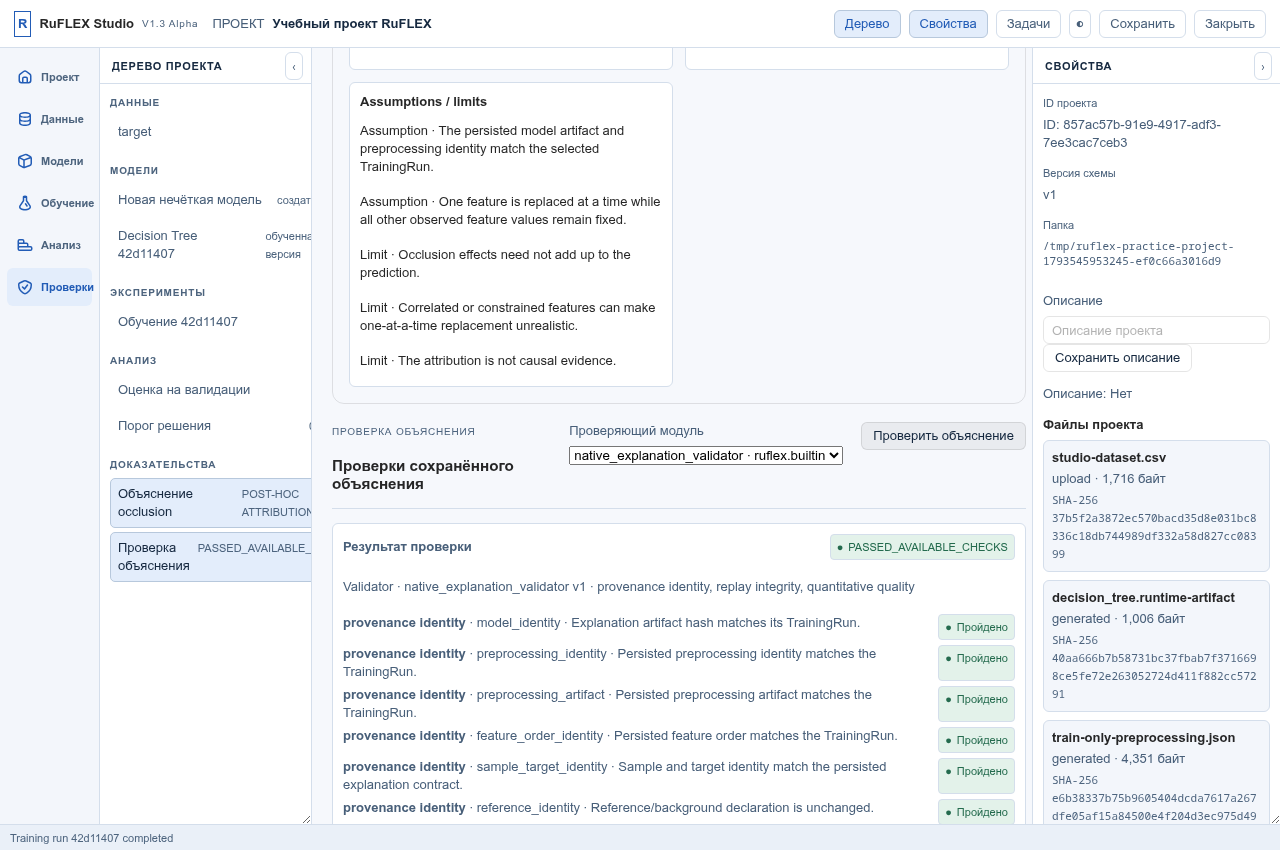
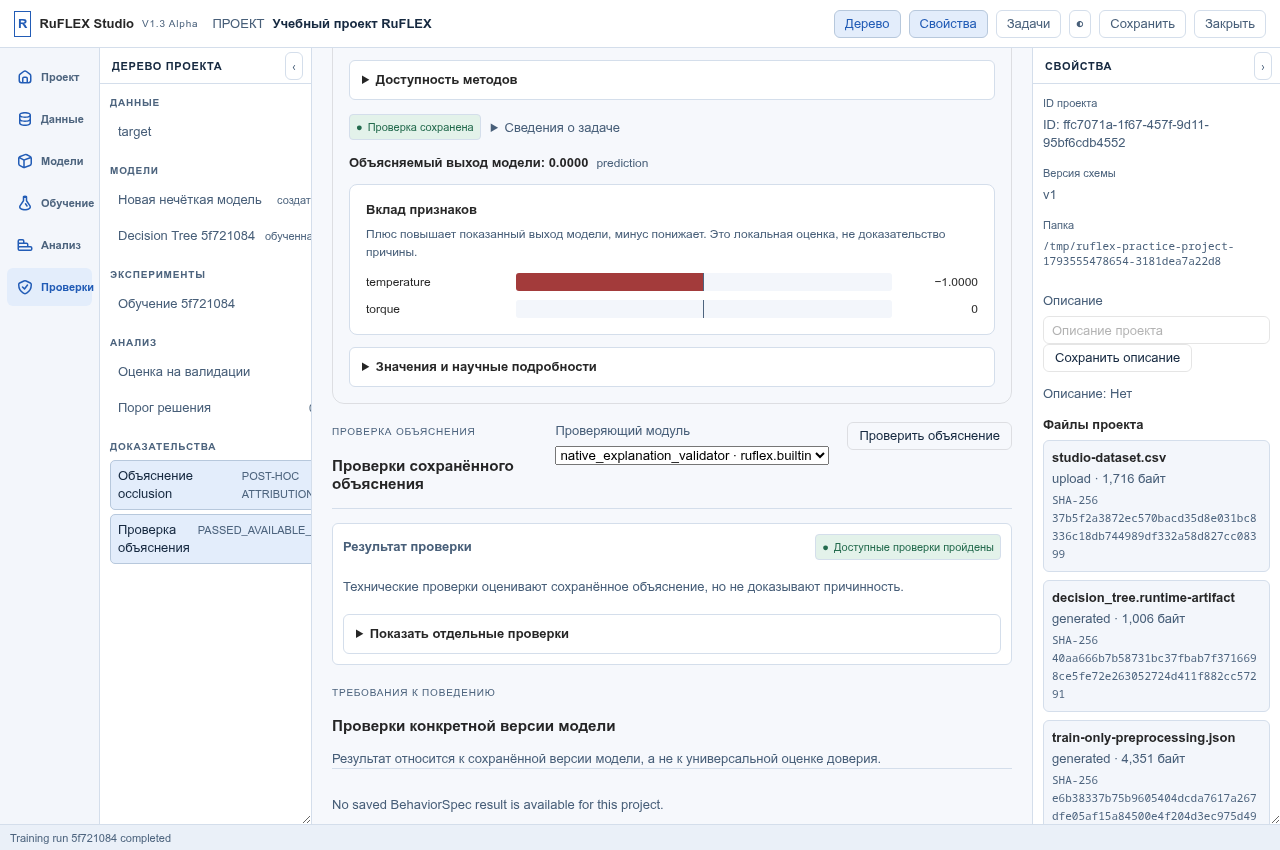
Show local explanation contributions as a compact chart

diff --git a/frontend/src/features/evidence/EvidenceWorkspace.tsx b/frontend/src/features/evidence/EvidenceWorkspace.tsx
@@ -56,6 +56,33 @@ function canonicalJson(value: unknown): string {
   return JSON.stringify(value) ?? "undefined";
 }
 
+function formatAttribution(value: number): string {
+  if (value === 0) return "0";
+  const magnitude = Math.abs(value);
+  return `${value > 0 ? "+" : "−"}${magnitude < 0.001 ? magnitude.toExponential(2) : magnitude.toFixed(4)}`;
+}
+
+function AttributionChart({ explanation }: { explanation: ExplanationContract }) {
+  const sorted = [...explanation.attributions].sort((left, right) =>
+    Math.abs(right.attribution) - Math.abs(left.attribution) || left.feature.localeCompare(right.feature));
+  const maxMagnitude = Math.max(0, ...sorted.map((item) => Math.abs(item.attribution)));
+  return <figure className="attribution-chart" data-testid="explanation-attribution-chart">
+    <figcaption>{ui("Feature contributions", "Вклад признаков")}</figcaption>
+    <p>{ui("Positive values raise the explained output; negative values lower it. This is a local estimate, not a causal effect.", "Плюс повышает показанный выход модели, минус понижает. Это локальная оценка, не доказательство причины.")}</p>
+    {sorted.length === 0 ? <p>{ui("No feature contributions were saved.", "Для этого объяснения нет сохранённых вкладов признаков.")}</p> : <div className="attribution-chart-rows">
+      {sorted.slice(0, 8).map((item) => <div className="attribution-chart-row" key={item.feature}>
+        <span className="attribution-chart-label" title={item.feature}>{item.feature}</span>
+        <div className="attribution-chart-track" aria-hidden="true">
+          <div className="attribution-chart-half negative">{item.attribution < 0 && <span style={{ width: `${maxMagnitude ? Math.abs(item.attribution) / maxMagnitude * 100 : 0}%` }} />}</div>
+          <div className="attribution-chart-half positive">{item.attribution > 0 && <span style={{ width: `${maxMagnitude ? item.attribution / maxMagnitude * 100 : 0}%` }} />}</div>
+        </div>
+        <span className="attribution-chart-value">{formatAttribution(item.attribution)}</span>
+      </div>)}
+      {sorted.length > 8 && <p>{ui(`${sorted.length - 8} more features are available in details.`, `Ещё ${sorted.length - 8} признаков — в подробностях.`)}</p>}
+    </div>}
+  </figure>;
+}
+
 export function EvidenceWorkspace({
   project,
   dataset,
@@ -1102,7 +1129,7 @@ export function EvidenceWorkspace({
       </div>
 
       {treeEvidenceHydrationStatus === "loading" && <p role="status">{ui("Checking saved structural trace…", "Проверка сохранённой трассы…")}</p>}
-      {treeEvidenceHydrationStatus === "none" && <p className="property-description" data-testid="tree-evidence-empty">{ui("No saved structural tree trace is available for this project.", "Сохранённой трассы дерева пока нет.")}</p>}
+      {treeEvidenceHydrationStatus === "none" && !explanation && <p className="property-description" data-testid="tree-evidence-empty">{ui("No saved structural tree trace is available for this project.", "Сохранённой трассы дерева пока нет.")}</p>}
       {treeEvidenceHydrationStatus === "error" && <div className="error" role="alert" data-testid="tree-evidence-hydration-error"><strong>Saved structural trace could not be verified.</strong><p>{treeEvidenceHydrationError}</p>{onRetryTreeEvidence && <Button view="outlined" onClick={onRetryTreeEvidence}>Retry structural trace</Button>}</div>}
 
       {hasExact && (
@@ -1115,10 +1142,9 @@ export function EvidenceWorkspace({
         <div className="feature-toolbar compact-toolbar">
           <div>
             <span className="eyebrow">{ui("POST-HOC ATTRIBUTION", "ОБЪЯСНЕНИЕ ПРОГНОЗА")}</span>
-            <h3>{method === "occlusion" ? "Train-reference occlusion" : method === "integrated_gradients" ? "Integrated Gradients" : method === "gradient_shap" ? "GradientSHAP" : method === "tree_shap" ? "TreeSHAP" : "SHAP · permutation"}</h3>
+            <h3>{method === "occlusion" ? ui("Train-reference occlusion", "Влияние признаков · Occlusion") : method === "integrated_gradients" ? ui("Integrated Gradients", "Интегрированные градиенты") : method === "gradient_shap" ? "GradientSHAP" : method === "tree_shap" ? "TreeSHAP" : ui("SHAP · permutation", "SHAP · перестановки")}</h3>
             <p>{ui(`${method === "occlusion" ? "One feature at a time is replaced by its train-derived reference." : method === "integrated_gradients" ? "Gradients are integrated from a train-derived reference to the observed sample." : method === "gradient_shap" ? "Expected gradients use a deterministic train-only background." : method === "tree_shap" ? "TreeSHAP uses the persisted declarative tree ensemble and a deterministic train-only background." : "Permutation SHAP uses the persisted model through a deterministic train-only background."} This is not a causal effect or an exact trace.`, "Объяснение строится по сохранённой модели и обучающим данным. Это не причинный вывод.")}</p>
           </div>
-          <StatusBadge tone="warning">post-hoc</StatusBadge>
         </div>
         {explanationHydrationStatus === "loading" && <p role="status">{ui("Loading saved explanation…", "Загрузка объяснения…")}</p>}
         {explanationHydrationStatus === "none" && <p className="property-description" data-testid="explanation-empty">{ui("No saved explanation is available for this project.", "Сохранённого объяснения пока нет.")}</p>}
@@ -1133,7 +1159,9 @@ export function EvidenceWorkspace({
               </select>
             </label>
             <label className="field-label evidence-method-select">{ui("Execution backend", "Среда выполнения")}<select aria-label={ui("Evidence execution backend", "Среда выполнения объяснения")} value={executionBackendKey} disabled={busy || project.read_only || runtimeCatalogHydrationStatus !== "available" || !executionBackends.length} onChange={(event) => setExecutionBackendKey(event.target.value)}>{executionBackends.map((backend) => <option key={backend.identity.key} value={backend.identity.key}>{backend.identity.key} · {backend.identity.provider}</option>)}</select></label>
-            <div className="evidence-sample-grid">
+            <details className="evidence-advanced-details">
+              <summary>{ui("Change the explained input", "Изменить значения для объяснения")}</summary>
+              <div className="evidence-sample-grid">
               {run.feature_columns.map((feature) => (
                 <label className="field-label" key={feature}>
                   {feature}
@@ -1142,14 +1170,15 @@ export function EvidenceWorkspace({
                   </select> : <TextInput aria-label={`Evidence ${feature}`} value={sample[feature] ?? ""} onUpdate={(value) => setSample((current) => ({ ...current, [feature]: value }))} />}
                 </label>
               ))}
-            </div>
+              </div>
+            </details>
             {samplePipelineStatus === "loading" && <p role="status">Loading this run’s TRAIN-frozen categorical choices…</p>}
             {samplePipelineStatus === "error" && <div className="error" role="alert"><strong>Categorical evidence input is paused.</strong><p>{samplePipelineError}</p><Button view="outlined" onClick={() => setSamplePipelineReload((current) => current + 1)}>Retry categorical encoder</Button></div>}
             <div className="evidence-actions">
               <Button view="action" disabled={busy || project.read_only || !categoricalSampleReady || runtimeCatalogHydrationStatus !== "available" || !executionBackends.length || capabilityHydrationStatus !== "available" || selectableMethods.length === 0 || explanationJobHydrationStatus === "loading" || explanationJobHydrationStatus === "error" || !!explanationJobPollError || !!explanationJob && ["queued", "running"].includes(explanationJob.status)} onClick={generate} data-ruflex-action="explanation.generate">{busy ? ui("Generating…", "Построение…") : ui("Generate explanation", "Построить объяснение")}</Button>
-              <span className="property-description">{run.model_kind} · run {run.run_id.slice(0, 8)}</span>
+              <span className="property-description">{ui("Model", "Модель")}: {run.model_kind}</span>
             </div>
-            {capabilityNegotiation && <div className="trace-card" data-testid="run-capability-negotiation"><strong>Run capability contract</strong><div className="property-list">{capabilityNegotiation.decisions.map((decision) => <div key={decision.capability}><span>{decision.capability.replaceAll("_", " ")}</span><span><StatusBadge tone={decision.status === "AVAILABLE" ? "success" : "info"}>{decision.status}</StatusBadge> {decision.detail}</span></div>)}</div></div>}
+            {capabilityNegotiation && <details className="evidence-advanced-details" data-testid="run-capability-negotiation"><summary>{ui("Method availability", "Доступность методов")}</summary><div className="property-list">{capabilityNegotiation.decisions.map((decision) => <div key={decision.capability}><span>{decision.capability.replaceAll("_", " ")}</span><span><StatusBadge tone={decision.status === "AVAILABLE" ? "success" : "info"}>{decision.status}</StatusBadge> {decision.detail}</span></div>)}</div></details>}
             {capabilityHydrationStatus === "loading" && <p role="status" data-testid="run-capability-loading">Checking explainer support for this exact run…</p>}
             {capabilityHydrationStatus === "error" && <div className="error" role="alert" data-testid="run-capability-error"><strong>Explainer support for this run could not be verified; generation is paused.</strong><p>{capabilityHydrationError}</p><Button view="outlined" onClick={() => setCapabilityHydrationReload((current) => current + 1)}>Retry run capabilities</Button></div>}
             {runtimeCatalogHydrationStatus === "loading" && <p role="status" data-testid="runtime-catalog-loading">Loading runtime explainer, validator and execution-backend catalogs…</p>}
@@ -1158,39 +1187,45 @@ export function EvidenceWorkspace({
             {explanationJobHydrationStatus === "loading" && <p role="status" data-testid="explanation-job-loading">Loading saved explanation job…</p>}
             {explanationJobHydrationStatus === "none" && <p className="property-description" data-testid="explanation-job-empty">No saved explanation job is available.</p>}
             {explanationJobHydrationStatus === "error" && <div className="error" role="alert" data-testid="explanation-job-hydration-error"><strong>Saved explanation job could not be verified; starting another operation is paused.</strong><p>{explanationJobHydrationError}</p><Button view="outlined" onClick={() => setExplanationJobHydrationReload((current) => current + 1)}>Retry saved explanation job</Button></div>}
-            {explanationJob && <div className="property-description" data-testid="explanation-job"><StatusBadge tone={explanationJob.status === "succeeded" ? "success" : explanationJob.status === "failed" ? "danger" : "warning"}>{explanationJob.status.toUpperCase()}</StatusBadge> {explanationJob.execution_backend_key ?? "frozen execution backend"} · {explanationJob.message ?? "Persisted operation"} · job {explanationJob.job_id.slice(0, 12)}{explanationJob.error && ` · ${explanationJob.error}`}{explanationJob.status === "queued" && <Button view="flat" size="s" disabled={cancelingExplanationJob} onClick={cancelQueuedJob} data-ruflex-action="explanation.cancel">{cancelingExplanationJob ? "Cancelling…" : "Cancel queued job"}</Button>}</div>}
+            {explanationJob && <div className="property-description" data-testid="explanation-job">{explanationJob.status === "succeeded" ? <><StatusBadge tone="success">{explanationJob.kind === "explanation_generation" ? ui("Explanation saved", "Объяснение сохранено") : ui("Check saved", "Проверка сохранена")}</StatusBadge><details className="evidence-job-details"><summary>{ui("Job details", "Сведения о задаче")}</summary><span>{explanationJob.status.toUpperCase()} · {explanationJob.execution_backend_key ?? "frozen execution backend"} · {explanationJob.message ?? "Persisted operation"} · job {explanationJob.job_id.slice(0, 12)}</span></details></> : <><StatusBadge tone={explanationJob.status === "failed" ? "danger" : "warning"}>{explanationJob.status.toUpperCase()}</StatusBadge> {explanationJob.execution_backend_key ?? "frozen execution backend"} · {explanationJob.message ?? "Persisted operation"} · job {explanationJob.job_id.slice(0, 12)}{explanationJob.error && ` · ${explanationJob.error}`}{explanationJob.status === "queued" && <Button view="flat" size="s" disabled={cancelingExplanationJob} onClick={cancelQueuedJob} data-ruflex-action="explanation.cancel">{cancelingExplanationJob ? "Cancelling…" : "Cancel queued job"}</Button>}</>}</div>}
             {explanationJob && (["queued", "running"].includes(explanationJob.status) || !!explanationJobPollError) && <div className={explanationJobPollError ? "error" : "property-description"} role={explanationJobPollError ? "alert" : "status"} data-testid="explanation-job-resume">{explanationJobPollError ? <><strong>{explanationJob.status === "succeeded" ? "Saved job output needs recovery." : "Saved job status needs recovery."}</strong><p>{explanationJobPollError}</p></> : <span>This saved job is still active. New explanation/check jobs are paused to prevent duplicate work.</span>}<Button view="outlined" disabled={busy} onClick={resumeExplanationJob}>{explanationJob.status === "succeeded" ? "Recover saved job result" : "Resume saved job"}</Button></div>}
           </>
         )}
         {error && <div className="error" role="alert">{error}</div>}
         {explanation && (
-          <div className="evidence-result-grid">
-            <section className="trace-card">
-              <strong>Explanation contract</strong>
-              <div><span>Category</span><code>{explanation.epistemic_category}</code></div>
-              <div><span>Method</span><code>{explanation.method}</code></div>
-              <div><span>Explained output</span><code>{explanation.prediction.toFixed(6)}</code></div>
-              <div><span>Output space</span><code>{explanation.output_space}</code></div>
-              {explanation.preprocessing_identity && <div><span>Preprocessing</span><code>{explanation.preprocessing_identity.slice(0, 28)}…</code></div>}
-              {explanation.sample_identity && <div><span>Sample identity</span><code>{explanation.sample_identity.slice(0, 28)}…</code></div>}
-              {explanation.base_value !== null && <div><span>Base value</span><code>{explanation.base_value.toFixed(6)}</code></div>}
-              {explanation.completeness_error !== null && <div><span>Completeness error</span><code>{explanation.completeness_error.toExponential(3)}</code></div>}
-              <p>{explanation.scientific_note}</p>
-            </section>
-            <section className="trace-card">
-              <strong>Feature effects</strong>
-              {[...explanation.attributions].sort((a, b) => Math.abs(b.attribution) - Math.abs(a.attribution)).map((item) => (
-                <div key={item.feature}>
-                  <span>{item.feature}: {item.observed_value.toFixed(4)} → ref {item.reference_value.toFixed(4)}</span>
-                  <code>{item.attribution >= 0 ? "+" : ""}{item.attribution.toFixed(6)}</code>
-                </div>
-              ))}
-            </section>
-            <section className="trace-card evidence-limitations">
-              <strong>Assumptions / limits</strong>
-              {explanation.assumptions.map((item) => <p key={item}>Assumption · {item}</p>)}
-              {explanation.limitations.map((item) => <p key={item}>Limit · {item}</p>)}
-            </section>
+          <div className="evidence-explanation-result">
+            <div className="evidence-explanation-summary"><strong>{ui("Explained model output", "Объясняемый выход модели")}: {explanation.prediction.toFixed(4)}</strong><span>{explanation.output_space}</span></div>
+            <AttributionChart explanation={explanation} />
+            <details className="evidence-advanced-details" data-testid="explanation-technical-details">
+              <summary>{ui("Values and scientific details", "Значения и научные подробности")}</summary>
+              <div className="evidence-result-grid">
+                <section className="trace-card">
+                  <strong>{ui("Explanation contract", "Контракт объяснения")}</strong>
+                  <div><span>{ui("Category", "Категория")}</span><code>{explanation.epistemic_category}</code></div>
+                  <div><span>{ui("Method", "Метод")}</span><code>{explanation.method}</code></div>
+                  <div><span>{ui("Output space", "Шкала выхода")}</span><code>{explanation.output_space}</code></div>
+                  {explanation.preprocessing_identity && <div><span>Preprocessing</span><code>{explanation.preprocessing_identity.slice(0, 28)}…</code></div>}
+                  {explanation.sample_identity && <div><span>Sample identity</span><code>{explanation.sample_identity.slice(0, 28)}…</code></div>}
+                  {explanation.base_value !== null && <div><span>Base value</span><code>{explanation.base_value.toFixed(6)}</code></div>}
+                  {explanation.completeness_error !== null && <div><span>Completeness error</span><code>{explanation.completeness_error.toExponential(3)}</code></div>}
+                  <p>{explanation.scientific_note}</p>
+                </section>
+                <section className="trace-card">
+                  <strong>{ui("All feature values", "Все значения признаков")}</strong>
+                  {[...explanation.attributions].sort((a, b) => Math.abs(b.attribution) - Math.abs(a.attribution)).map((item) => (
+                    <div key={item.feature}>
+                      <span>{item.feature}: {item.observed_value.toFixed(4)} → ref {item.reference_value.toFixed(4)}</span>
+                      <code>{formatAttribution(item.attribution)}</code>
+                    </div>
+                  ))}
+                </section>
+                <section className="trace-card evidence-limitations">
+                  <strong>{ui("Assumptions / limits", "Допущения и ограничения")}</strong>
+                  {explanation.assumptions.map((item) => <p key={item}>{ui("Assumption", "Допущение")} · {item}</p>)}
+                  {explanation.limitations.map((item) => <p key={item}>{ui("Limit", "Ограничение")} · {item}</p>)}
+                </section>
+              </div>
+            </details>
           </div>
         )}
       </section>
@@ -1204,15 +1239,19 @@ export function EvidenceWorkspace({
           </div>
           {explanationCheck && explanationCheck.explanation_id !== explanation.explanation_id ? <div className="error" role="alert" data-testid="explanation-check-mismatch"><strong>Saved check belongs to a different explanation.</strong><p>The persisted ExplanationCheck is not displayed as validation of the currently selected explanation.</p></div> : explanationCheck ? (
             <div className="trace-card">
-              <div className="evidence-check-header"><strong>{ui("Check result", "Результат проверки")}</strong><StatusBadge tone={statusTone(explanationCheck.status)}>{explanationCheck.status}</StatusBadge></div>
-              {validatorPlugins.filter((plugin) => explanationCheck.checks.some((item) => item.validator_key === plugin.key)).map((plugin) => <p className="property-description" data-testid="validator-plugin" key={plugin.key}>Validator · {plugin.key} v{plugin.version} · {Object.entries(plugin.capabilities).filter(([, available]) => available).map(([key]) => key.replaceAll("_", " ")).join(", ")}</p>)}
-              {explanationCheck.checks.map((item) => (
-                <div key={item.name}>
-                  <span><strong>{item.category.replaceAll("_", " ")}</strong> · {item.name} · {item.detail}</span>
-                  <StatusBadge tone={statusTone(item.status)}>{item.status}</StatusBadge>
-                </div>
-              ))}
-              <p>{explanationCheck.scientific_note}</p>
+              <div className="evidence-check-header"><strong>{ui("Check result", "Результат проверки")}</strong><span data-testid="explanation-check-status" data-status={explanationCheck.status}><StatusBadge tone={statusTone(explanationCheck.status)}>{explanationCheck.status === "PASSED_AVAILABLE_CHECKS" ? ui("Available checks passed", "Доступные проверки пройдены") : explanationCheck.status === "WARNING" ? ui("Checks have warnings", "Есть замечания") : ui("Checks failed", "Проверки не пройдены")}</StatusBadge></span></div>
+              <p className="property-description">{ui("Technical checks assess the saved explanation; they do not establish causality.", "Технические проверки оценивают сохранённое объяснение, но не доказывают причинность.")}</p>
+              <details className="evidence-advanced-details" data-testid="explanation-check-details"><summary>{ui("Show individual checks", "Показать отдельные проверки")}</summary>
+                {validatorPlugins.filter((plugin) => explanationCheck.checks.some((item) => item.validator_key === plugin.key)).map((plugin) => <p className="property-description" data-testid="validator-plugin" key={plugin.key}>Validator · {plugin.key} v{plugin.version} · {Object.entries(plugin.capabilities).filter(([, available]) => available).map(([key]) => key.replaceAll("_", " ")).join(", ")}</p>)}
+                {explanationCheck.checks.map((item) => (
+                  <div className="evidence-check-detail" key={item.name}>
+                    <span><strong>{item.category.replaceAll("_", " ")}</strong> · {item.name} · {item.detail}</span>
+                    <StatusBadge tone={statusTone(item.status)}>{item.status}</StatusBadge>
+                  </div>
+                ))}
+                <p>{explanationCheck.scientific_note}</p>
+                <small className="mono">{explanationCheck.status}</small>
+              </details>
             </div>
           ) : explanationCheckHydrationStatus === "error" ? <div className="error" role="alert" data-testid="explanation-check-hydration-error"><strong>{ui("Saved explanation check could not be verified.", "Не удалось проверить сохранённый результат.")}</strong><p>{explanationCheckHydrationError}</p>{onRetryExplanationCheck && <Button view="outlined" onClick={onRetryExplanationCheck}>{ui("Retry explanation check", "Повторить проверку")}</Button>}</div> : explanationCheckHydrationStatus === "loading" ? <p role="status">{ui("Loading saved explanation check…", "Загрузка проверки…")}</p> : <p className="property-description">{ui("Not checked yet. A generated explanation is not automatically validated.", "Проверка ещё не запускалась. Создание объяснения не подтверждает его корректность.")}</p>}
         </section>

diff --git a/frontend/src/styles.css b/frontend/src/styles.css
@@ -1346,6 +1346,31 @@ input:focus-visible,
 .evidence-sample-grid { display: grid; grid-template-columns: repeat(auto-fit, minmax(180px, 1fr)); gap: 10px; }
 .evidence-result-grid { display: grid; grid-template-columns: repeat(auto-fit, minmax(280px, 1fr)); gap: 12px; }
 .evidence-limitations p { margin: 6px 0; }
+.evidence-explanation-result { display: grid; gap: 12px; }
+.evidence-explanation-summary { display: flex; align-items: baseline; flex-wrap: wrap; gap: 8px; }
+.evidence-explanation-summary span { color: var(--rf-text-secondary); font-size: 12px; }
+.evidence-advanced-details { border: 1px solid var(--rf-border); border-radius: 6px; padding: 10px 12px; background: var(--rf-bg-surface); }
+.evidence-advanced-details summary { cursor: pointer; font-weight: 600; }
+.evidence-advanced-details[open] summary { margin-bottom: 12px; }
+.evidence-job-details { display: inline-block; margin-left: 10px; vertical-align: middle; }
+.evidence-job-details summary { cursor: pointer; }
+.evidence-job-details[open] { display: block; margin: 8px 0 0; }
+.attribution-chart { margin: 0; padding: 16px; border: 1px solid var(--rf-border); border-radius: 8px; background: var(--rf-bg-surface); }
+.attribution-chart figcaption { font-weight: 700; }
+.attribution-chart p { margin: 6px 0 12px; color: var(--rf-text-secondary); font-size: 12px; }
+.attribution-chart-rows { display: grid; gap: 9px; }
+.attribution-chart-row { display: grid; grid-template-columns: minmax(90px, 140px) minmax(120px, 1fr) 76px; align-items: center; gap: 10px; font-size: 12px; }
+.attribution-chart-label { overflow: hidden; text-overflow: ellipsis; white-space: nowrap; }
+.attribution-chart-track { display: grid; grid-template-columns: 1fr 1fr; height: 18px; background: var(--rf-bg-surface-2); border-radius: 3px; overflow: hidden; }
+.attribution-chart-half { display: flex; align-items: stretch; }
+.attribution-chart-half.negative { justify-content: flex-end; border-right: 1px solid var(--rf-text-muted); }
+.attribution-chart-half.positive { justify-content: flex-start; }
+.attribution-chart-half.negative span { background: var(--rf-danger); }
+.attribution-chart-half.positive span { background: var(--rf-accent); }
+.attribution-chart-value { text-align: right; font-variant-numeric: tabular-nums; }
+.evidence-check-detail { display: flex; justify-content: space-between; align-items: baseline; gap: 12px; padding: 7px 0; border-top: 1px solid var(--rf-border); }
+.evidence-check-detail span:first-child { min-width: 0; }
+@media (max-width: 720px) { .attribution-chart-row { grid-template-columns: minmax(70px, 100px) minmax(80px, 1fr) 68px; gap: 6px; } }
 .slice-form-grid { display: grid; grid-template-columns: repeat(auto-fit, minmax(170px, 1fr)); gap: 10px; margin: 12px 0; }
 .slice-form-grid input, .slice-form-grid select { width: 100%; }
 .evidence-method-select { max-width: 320px; }

diff --git a/frontend/e2e/practice-project-full-route.spec.ts b/frontend/e2e/practice-project-full-route.spec.ts
@@ -49,7 +49,15 @@ test("practice template persists data and reaches model, explanation and explici
   await page.locator('[data-ruflex-action="explanation.generate"]').click();
   await expect(page.getByTestId("explanation-job")).toContainText("SUCCEEDED");
   await page.locator('[data-ruflex-action="explanation.check"]').click();
-  await expect(page.getByText("PASSED_AVAILABLE_CHECKS", { exact: true })).toBeVisible();
+  await expect(page.getByTestId("explanation-check-status")).toHaveAttribute("data-status", "PASSED_AVAILABLE_CHECKS");
+  await expect(page.getByTestId("explanation-check-status")).toContainText("Доступные проверки пройдены");
+  const chart = page.getByTestId("explanation-attribution-chart");
+  await expect(chart).toBeVisible();
+  await expect(chart.locator(".attribution-chart-row")).toHaveCount(2);
+  await expect(page.getByTestId("explanation-technical-details")).not.toHaveAttribute("open", "");
+  await page.getByTestId("explanation-technical-details").locator("summary").click();
+  await expect(page.getByText("Все значения признаков")).toBeVisible();
+  await page.getByTestId("explanation-technical-details").locator("summary").click();
   await capture("practice-03-explanation.png");
   await page.getByRole("navigation", { name: "Разделы Studio" }).getByRole("button", { name: "Анализ" }).click();
   await expect(page.getByRole("heading", { name: "Финальный тест закрыт" })).toBeVisible();
@@ -64,4 +72,11 @@ test("practice template persists data and reaches model, explanation and explici
   await page.getByRole("button", { name: "Открыть проект", exact: true }).click();
   await page.getByRole("navigation", { name: "Разделы Studio" }).getByRole("button", { name: "Анализ" }).click();
   await expect(page.getByRole("heading", { name: "Результат финального теста сохранён отдельно" })).toBeVisible();
+  await page.getByRole("navigation", { name: "Разделы Studio" }).getByRole("button", { name: "Доказательства" }).click();
+  await expect(page.getByTestId("explanation-attribution-chart").locator(".attribution-chart-row")).toHaveCount(2);
+  await page.getByLabel("Сменить тему").click();
+  await expect(page.locator("html")).toHaveAttribute("data-ruflex-theme", "dark");
+  await expect(page.getByTestId("explanation-attribution-chart")).toBeVisible();
+  await page.getByTestId("explanation-attribution-chart").scrollIntoViewIfNeeded();
+  await capture("practice-05-explanation-dark.png");
 });

diff --git a/frontend/e2e/product-evidence-capture.spec.ts b/frontend/e2e/product-evidence-capture.spec.ts
@@ -233,11 +233,12 @@ test("PRODUCT-EVIDENCE captures the frozen V1 Studio route from persisted object
   await expect(page.getByTestId("explanation-job-resume")).toContainText("Saved ExplanationCheck response lost after persistence");
   await expect(page.getByRole("button", { name: "Run explanation checks", exact: true })).toBeDisabled();
   await page.getByRole("button", { name: "Recover saved job result", exact: true }).click();
-  await expect(page.getByText("PASSED_AVAILABLE_CHECKS", { exact: true })).toBeVisible();
+  await expect(page.getByTestId("explanation-check-status")).toHaveAttribute("data-status", "PASSED_AVAILABLE_CHECKS");
   await expect(page.getByTestId("explanation-job-resume")).toHaveCount(0);
   expect(explanationCheckJobPostCount).toBe(1);
-  await capture(page, screenshots, "09_xai_and_explanation_check.png", page.getByText("PASSED_AVAILABLE_CHECKS", { exact: true }));
+  await capture(page, screenshots, "09_xai_and_explanation_check.png", page.getByTestId("explanation-check-status"));
   // Two equivalent declared cases for the first independently trained run.
+  await page.getByText("Change the explained input", { exact: true }).click();
   await page.getByLabel("temperature").fill("30");
   await page.getByRole("button", { name: "Generate explanation", exact: true }).click();
 
@@ -247,6 +248,7 @@ test("PRODUCT-EVIDENCE captures the frozen V1 Studio route from persisted object
   await expect(page.locator(".run-provenance")).toContainText("model artifact persisted", { timeout: 30_000 });
   await page.getByRole("button", { name: "E", exact: true }).click();
   await page.getByRole("button", { name: "Generate explanation", exact: true }).click();
+  await page.getByText("Change the explained input", { exact: true }).click();
   await page.getByLabel("temperature").fill("30");
   await page.getByRole("button", { name: "Generate explanation", exact: true }).click();
   const explanationChoices = page.locator('.comparison-choice input[type="checkbox"]');

diff --git a/frontend/e2e/synthetic-practice-route.spec.ts b/frontend/e2e/synthetic-practice-route.spec.ts
@@ -80,7 +80,7 @@ test("a first-time user can persist synthetic evidence and apply a frozen final-
   await expect(page.getByTestId("explanation-job")).toContainText("SUCCEEDED");
   await expect(page.getByText("POST-HOC ATTRIBUTION", { exact: true }).first()).toBeVisible();
   await page.getByRole("button", { name: "Run explanation checks", exact: true }).click();
-  await expect(page.getByText("PASSED_AVAILABLE_CHECKS", { exact: true })).toBeVisible();
+  await expect(page.getByTestId("explanation-check-status")).toHaveAttribute("data-status", "PASSED_AVAILABLE_CHECKS");
   await page.getByRole("button", { name: "Create and run BehaviorSpec", exact: true }).click();
   await expect(page.getByTestId("behavior-result")).toContainText("Output remains in declared range");
   await page.getByRole("button", { name: "Build AssuranceCase", exact: true }).click();
@@ -108,7 +108,7 @@ test("a first-time user can persist synthetic evidence and apply a frozen final-
   await expect(page.getByText("REVIEW BELOW 0.80", { exact: false })).toBeVisible();
   await page.getByRole("button", { name: "E", exact: true }).click();
   await expect(page.getByTestId("explanation-job")).toContainText("SUCCEEDED");
-  await expect(page.getByText("PASSED_AVAILABLE_CHECKS", { exact: true })).toBeVisible();
+  await expect(page.getByTestId("explanation-check-status")).toHaveAttribute("data-status", "PASSED_AVAILABLE_CHECKS");
   await expect(page.getByTestId("behavior-result")).toContainText("Output remains in declared range");
   await expect(page.getByTestId("assurance-case")).toContainText("dataset contract");
   await page.getByRole("button", { name: "P", exact: true }).click();

diff --git a/frontend/e2e/evidence-occlusion.spec.ts b/frontend/e2e/evidence-occlusion.spec.ts
@@ -59,8 +59,9 @@ test("PRODUCT-05 persists post-hoc evidence separately from exact traces", async
     button.dispatchEvent(new MouseEvent("click", { bubbles: true }));
     button.dispatchEvent(new MouseEvent("click", { bubbles: true }));
   });
-  await expect(page.getByText("PASSED_AVAILABLE_CHECKS", { exact: true })).toBeVisible();
+  await expect(page.getByTestId("explanation-check-status")).toHaveAttribute("data-status", "PASSED_AVAILABLE_CHECKS");
   expect(explanationCheckJobPostCount).toBe(1);
+  await page.getByTestId("explanation-check-details").locator("summary").click();
   await expect(page.getByText("replay integrity", { exact: true })).toBeVisible();
   await expect(page.getByTestId("validator-plugin")).toContainText("native_explanation_validator v1");
 
@@ -90,7 +91,7 @@ test("PRODUCT-05 persists post-hoc evidence separately from exact traces", async
   await expect(page.getByTestId("explanation-check-hydration-error")).toContainText("Temporary explanation-check read failure");
   await page.getByRole("button", { name: "Retry explanation check", exact: true }).click();
   await expect(page.getByTestId("explanation-job")).toContainText("SUCCEEDED");
-  await expect(page.getByText("PASSED_AVAILABLE_CHECKS", { exact: true })).toBeVisible();
+  await expect(page.getByTestId("explanation-check-status")).toHaveAttribute("data-status", "PASSED_AVAILABLE_CHECKS");
 });
 
 test("PRODUCT-06 persists revision-bound BehaviorSpec evidence through reopen", async ({ page }) => {

diff --git a/frontend/e2e/mlp-user-route.spec.ts b/frontend/e2e/mlp-user-route.spec.ts
@@ -41,7 +41,7 @@ test("Studio saves tabular data, trains a configured MLP, and reopens its valida
   await page.getByRole("button", { name: "Generate explanation", exact: true }).click();
   await expect(page.getByTestId("explanation-job")).toContainText("SUCCEEDED");
   await page.getByRole("button", { name: "Run explanation checks", exact: true }).click();
-  await expect(page.getByText("PASSED_AVAILABLE_CHECKS", { exact: true })).toBeVisible();
+  await expect(page.getByTestId("explanation-check-status")).toHaveAttribute("data-status", "PASSED_AVAILABLE_CHECKS");
   await page.getByRole("button", { name: "Close", exact: true }).click();
   await page.getByLabel("Project path").fill(path);
   await page.getByRole("button", { name: "Open project", exact: true }).click();
@@ -54,5 +54,5 @@ test("Studio saves tabular data, trains a configured MLP, and reopens its valida
   await page.getByRole("button", { name: "A", exact: true }).click();
   await expect(page.getByRole("heading", { name: "Validation prediction evidence" })).toBeVisible();
   await page.getByRole("button", { name: "E", exact: true }).click();
-  await expect(page.getByText("PASSED_AVAILABLE_CHECKS", { exact: true })).toBeVisible();
+  await expect(page.getByTestId("explanation-check-status")).toHaveAttribute("data-status", "PASSED_AVAILABLE_CHECKS");
 });

diff --git a/docs/qa/ALPHA_EXPLANATION_CHART.md b/docs/qa/ALPHA_EXPLANATION_CHART.md
@@ -1,0 +1,7 @@
+# Экран объяснения: график и раскрываемые детали
+
+Локальное объяснение теперь показывает горизонтальный график сохранённых вкладов признаков. Направление полосы соответствует знаку вклада в показанный выход модели; длина нормирована только относительно наибольшего абсолютного вклада в этом же объяснении. Это не глобальная важность признака и не причинный эффект. При более чем восьми признаках график показывает восемь крупнейших по модулю, а полный набор чисел остаётся в раскрываемых подробностях.
+
+В основном виде оставлены выход модели, график и краткий результат технической проверки. Входные значения, контракт, допущения, отдельные проверки и сведения о завершённой фоновой задаче раскрываются по запросу. Persisted ExplanationContract и ExplanationCheck не меняются; после повторного открытия проекта график строится из сохранённого контракта.
+
+QA: русский браузерный учебный маршрут проверяет график, два признака, раскрытие полного контракта, закрытие/повторное открытие и тёмную тему. Отдельные browser regressions проверяют Occlusion, MLP и синтетический маршрут; frontend unit suite и production build пройдены. Скриншоты: `screenshots/practice-03-explanation.png` и `screenshots/practice-05-explanation-dark.png`.
